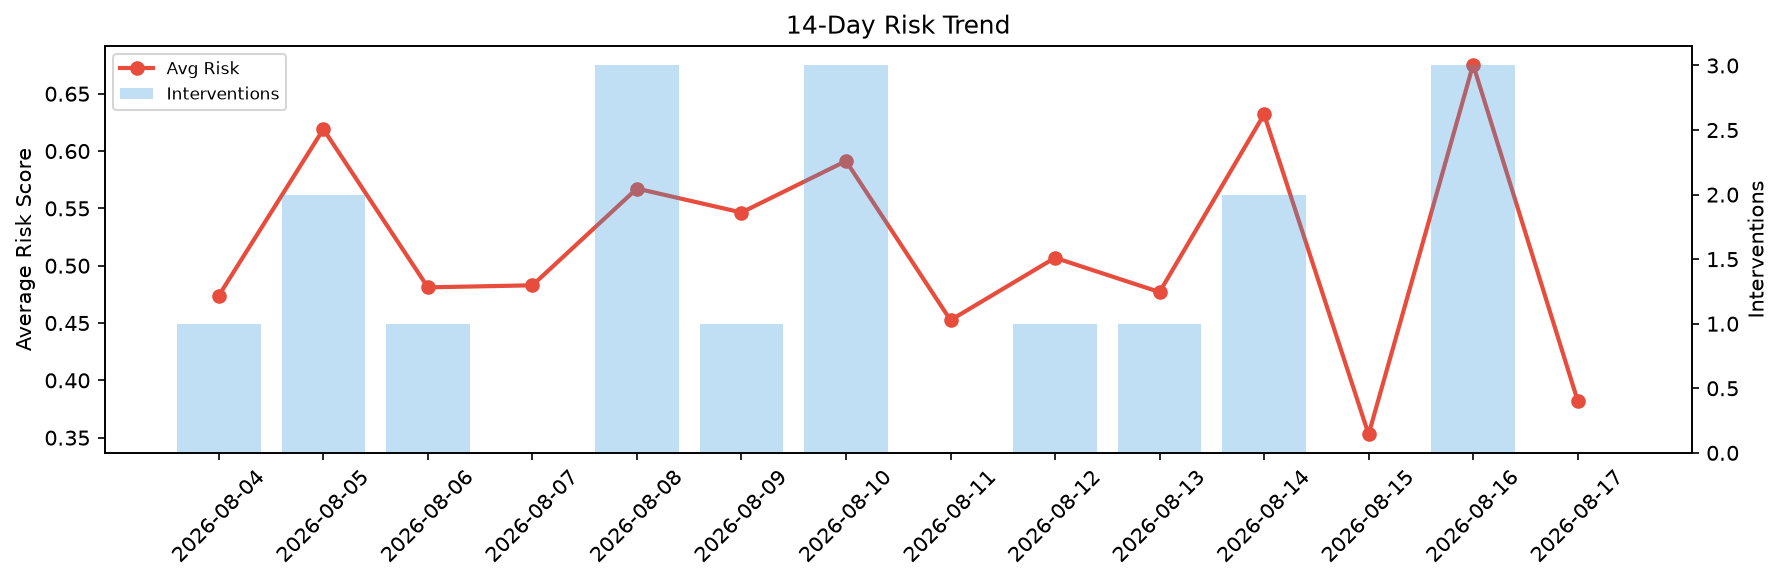
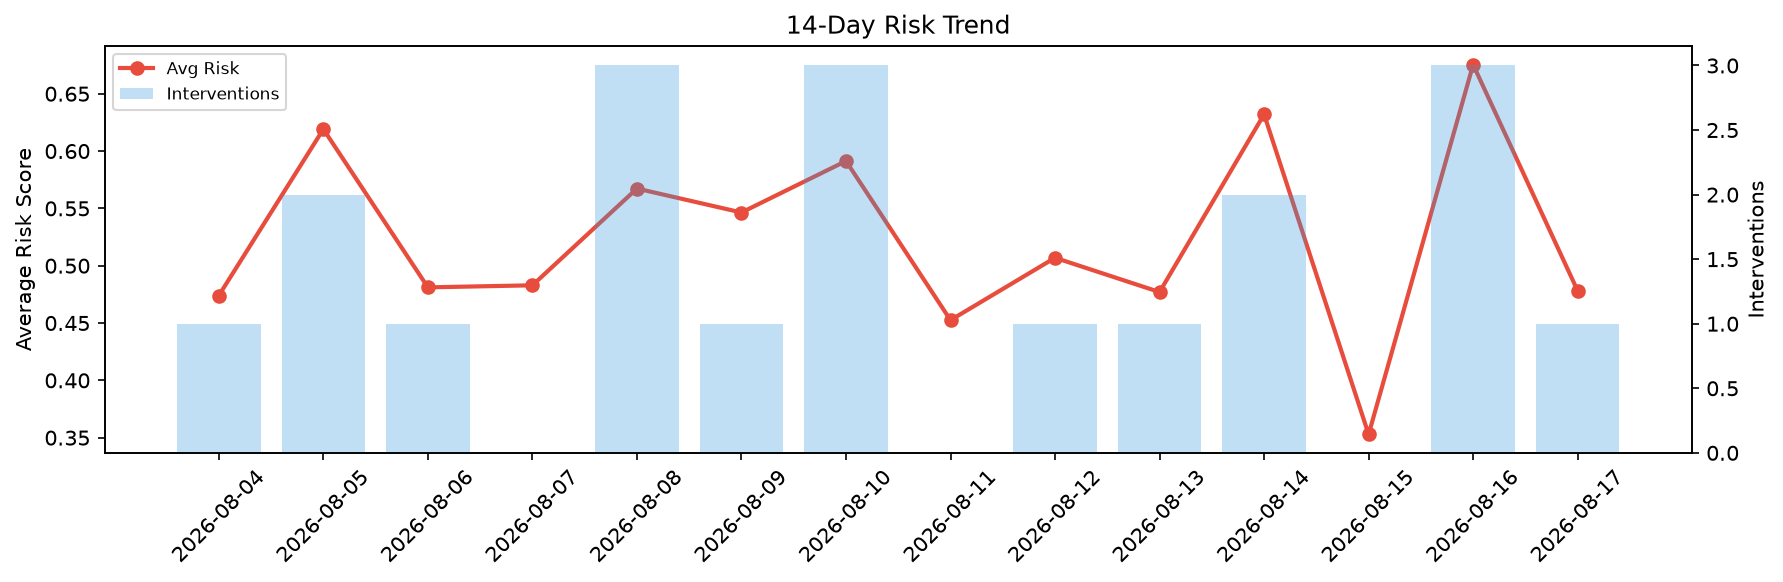
agent-improvement: daily cycle 2026-08-17T20:41

diff --git a/logs/2026-08-17.md b/logs/2026-08-17.md
@@ -1,6 +1,6 @@
 # Agent Improvement Report — 2026-08-17
 
-**Cycle ID:** `01bdfe24` | **Avg Risk:** 0.3823 | **Interventions:** 0/4
+**Cycle ID:** `d87115af` | **Avg Risk:** 0.4781 | **Interventions:** 1/4
 
 ![Dashboard](2026-08-17_dashboard.png)
 
@@ -10,18 +10,18 @@
 
 | Domain | Risk Score | Decision | Alerts |
 |--------|-----------|----------|--------|
-| code_review | 0.5184 | monitor | duplication |
-| incident_response | 0.3725 | monitor | none |
-| data_pipeline | 0.4005 | monitor | none |
-| deployment | 0.2377 | monitor | none |
+| code_review | 0.4701 | monitor | none |
+| incident_response | 0.3464 | monitor | none |
+| data_pipeline | 0.6067 | intervene | none |
+| deployment | 0.4893 | monitor | rollback_rate |
 
 ## Delta vs Yesterday
 
 | Domain | Today | Yesterday | Change |
 |--------|-------|-----------|--------|
-| code_review | 0.5184 | 0.667 | 📉 -22.3% |
-| incident_response | 0.3725 | 0.6808 | 📉 -45.3% |
-| data_pipeline | 0.4005 | 0.5425 | 📉 -26.2% |
-| deployment | 0.2377 | 0.8113 | 📉 -70.7% |
+| code_review | 0.4701 | 0.667 | 📉 -29.5% |
+| incident_response | 0.3464 | 0.6808 | 📉 -49.1% |
+| data_pipeline | 0.6067 | 0.5425 | 📈 11.8% |
+| deployment | 0.4893 | 0.8113 | 📉 -39.7% |
 
-**Refinement:** `{'adjustment': 'maintain', 'trend': 'improving', 'window': 4}`
+**Refinement:** `{'adjustment': 'tighten_thresholds', 'trend': 'degrading', 'window': 4}`
